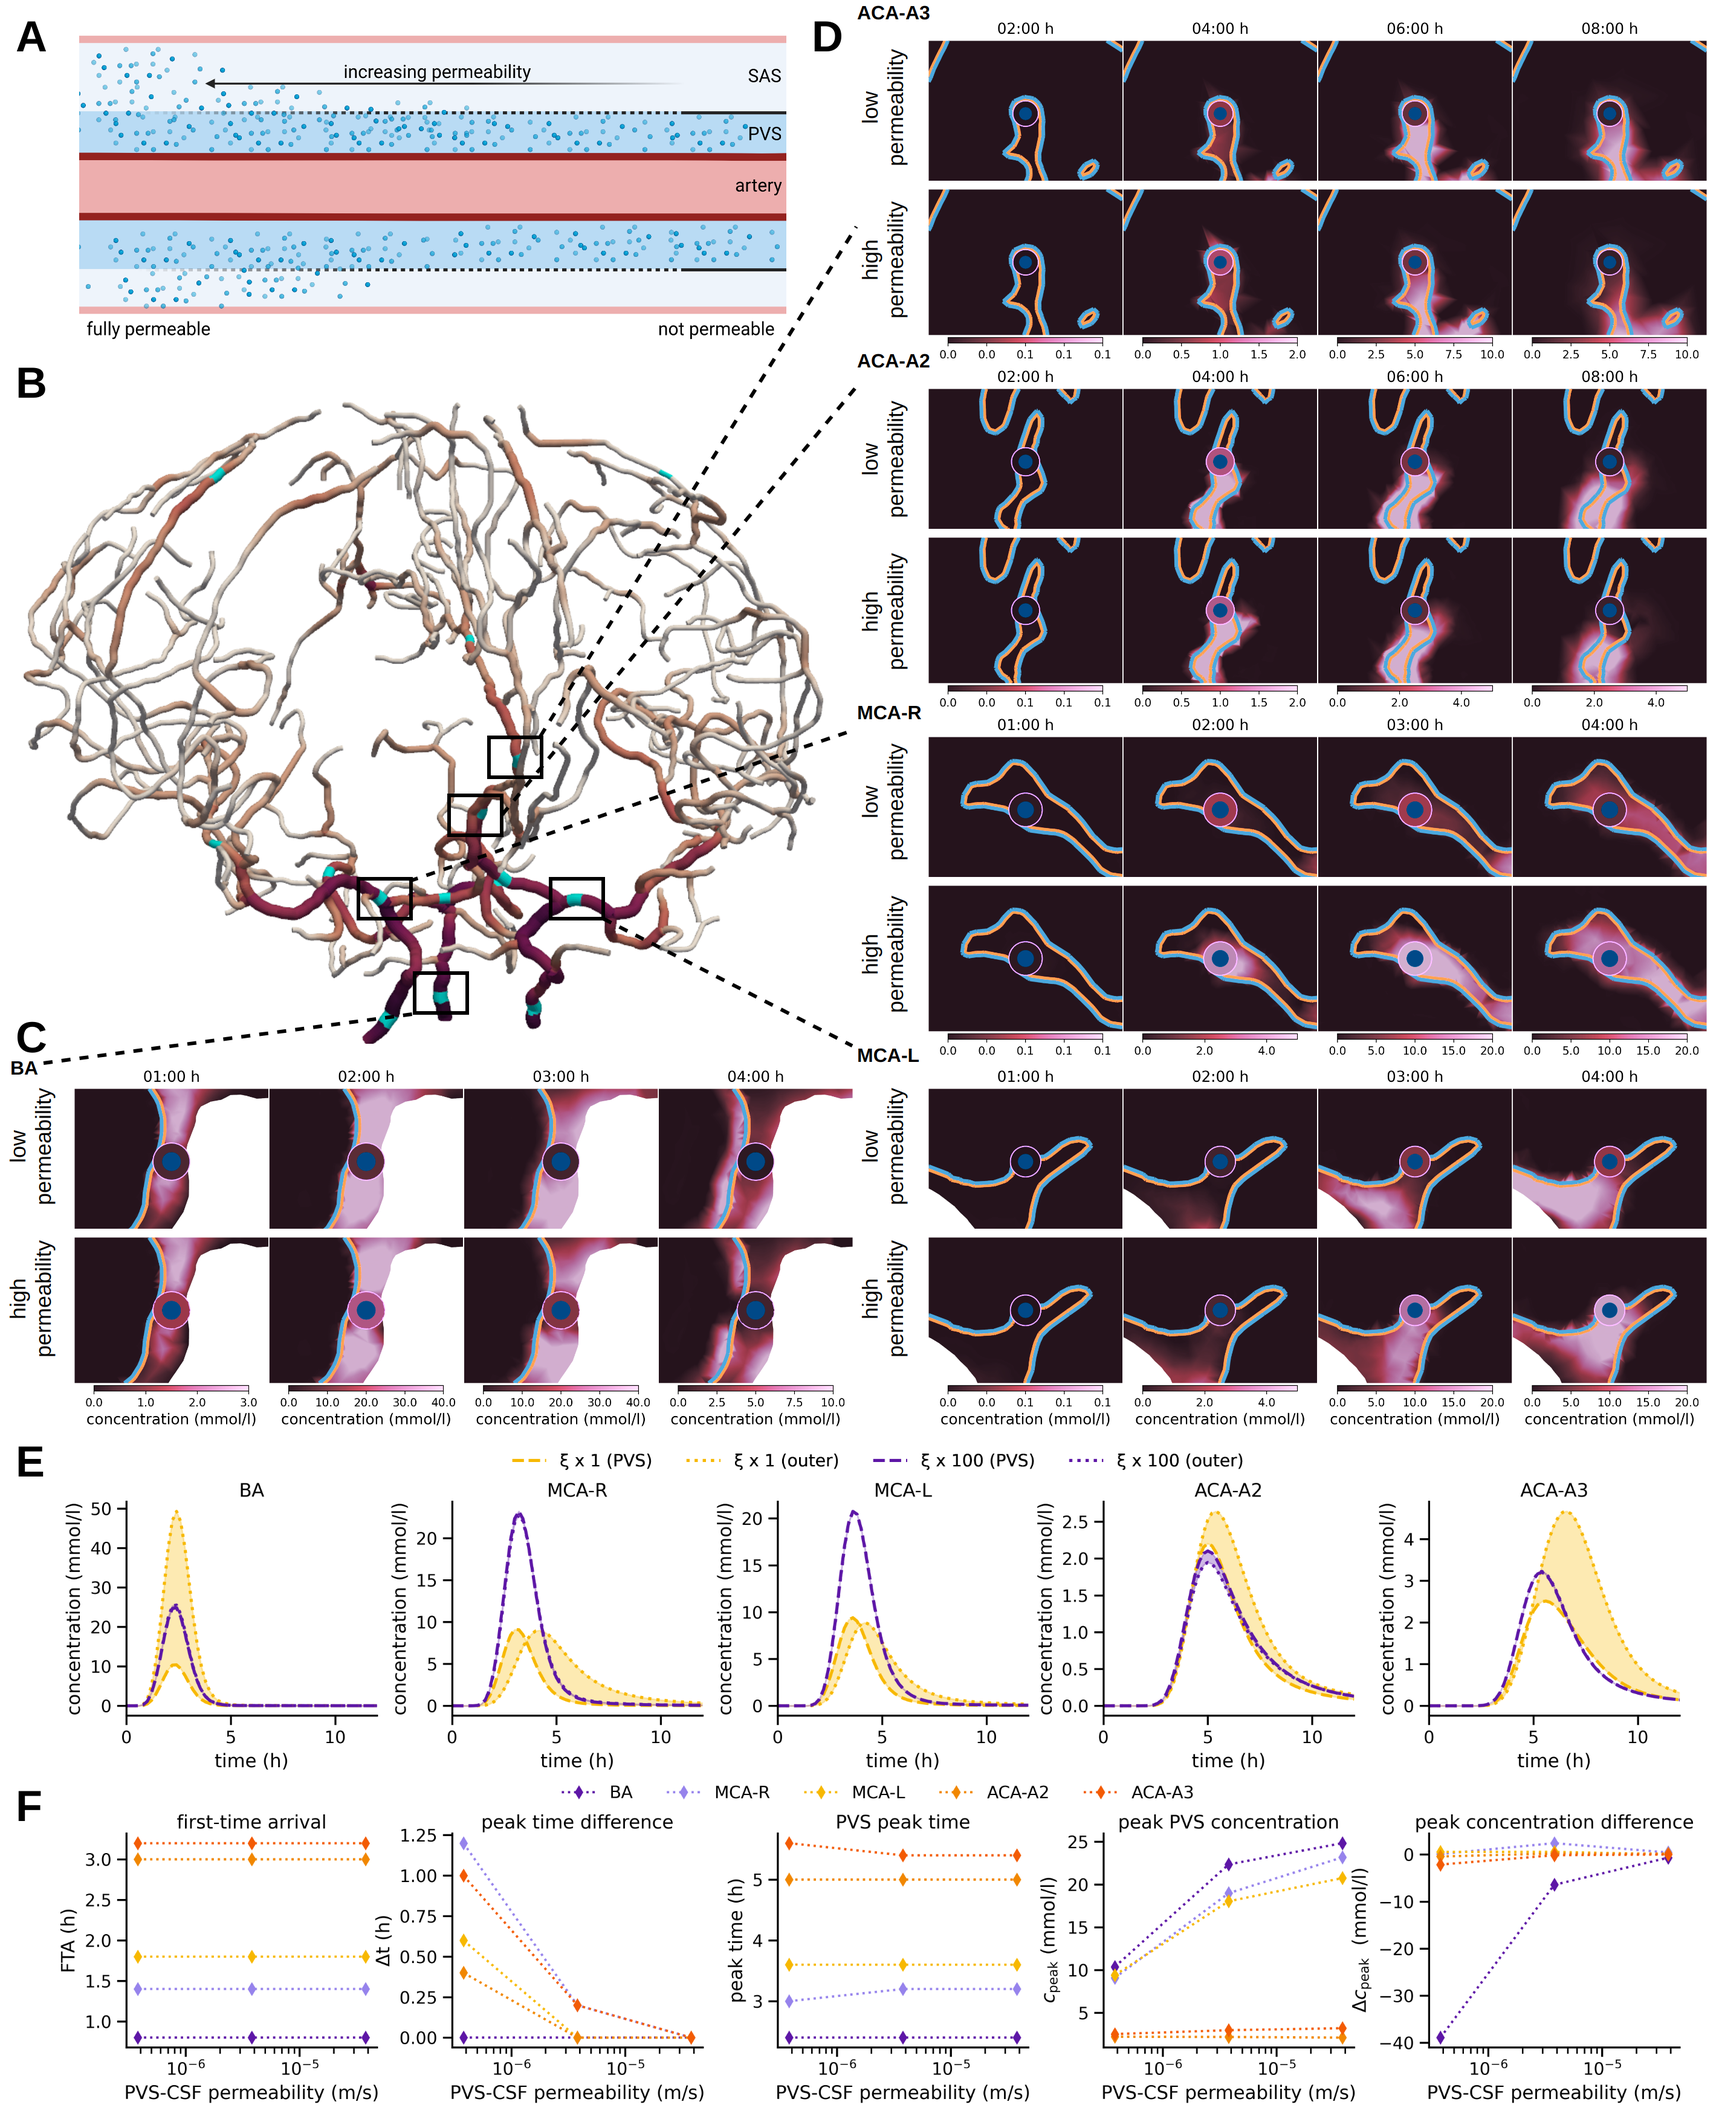
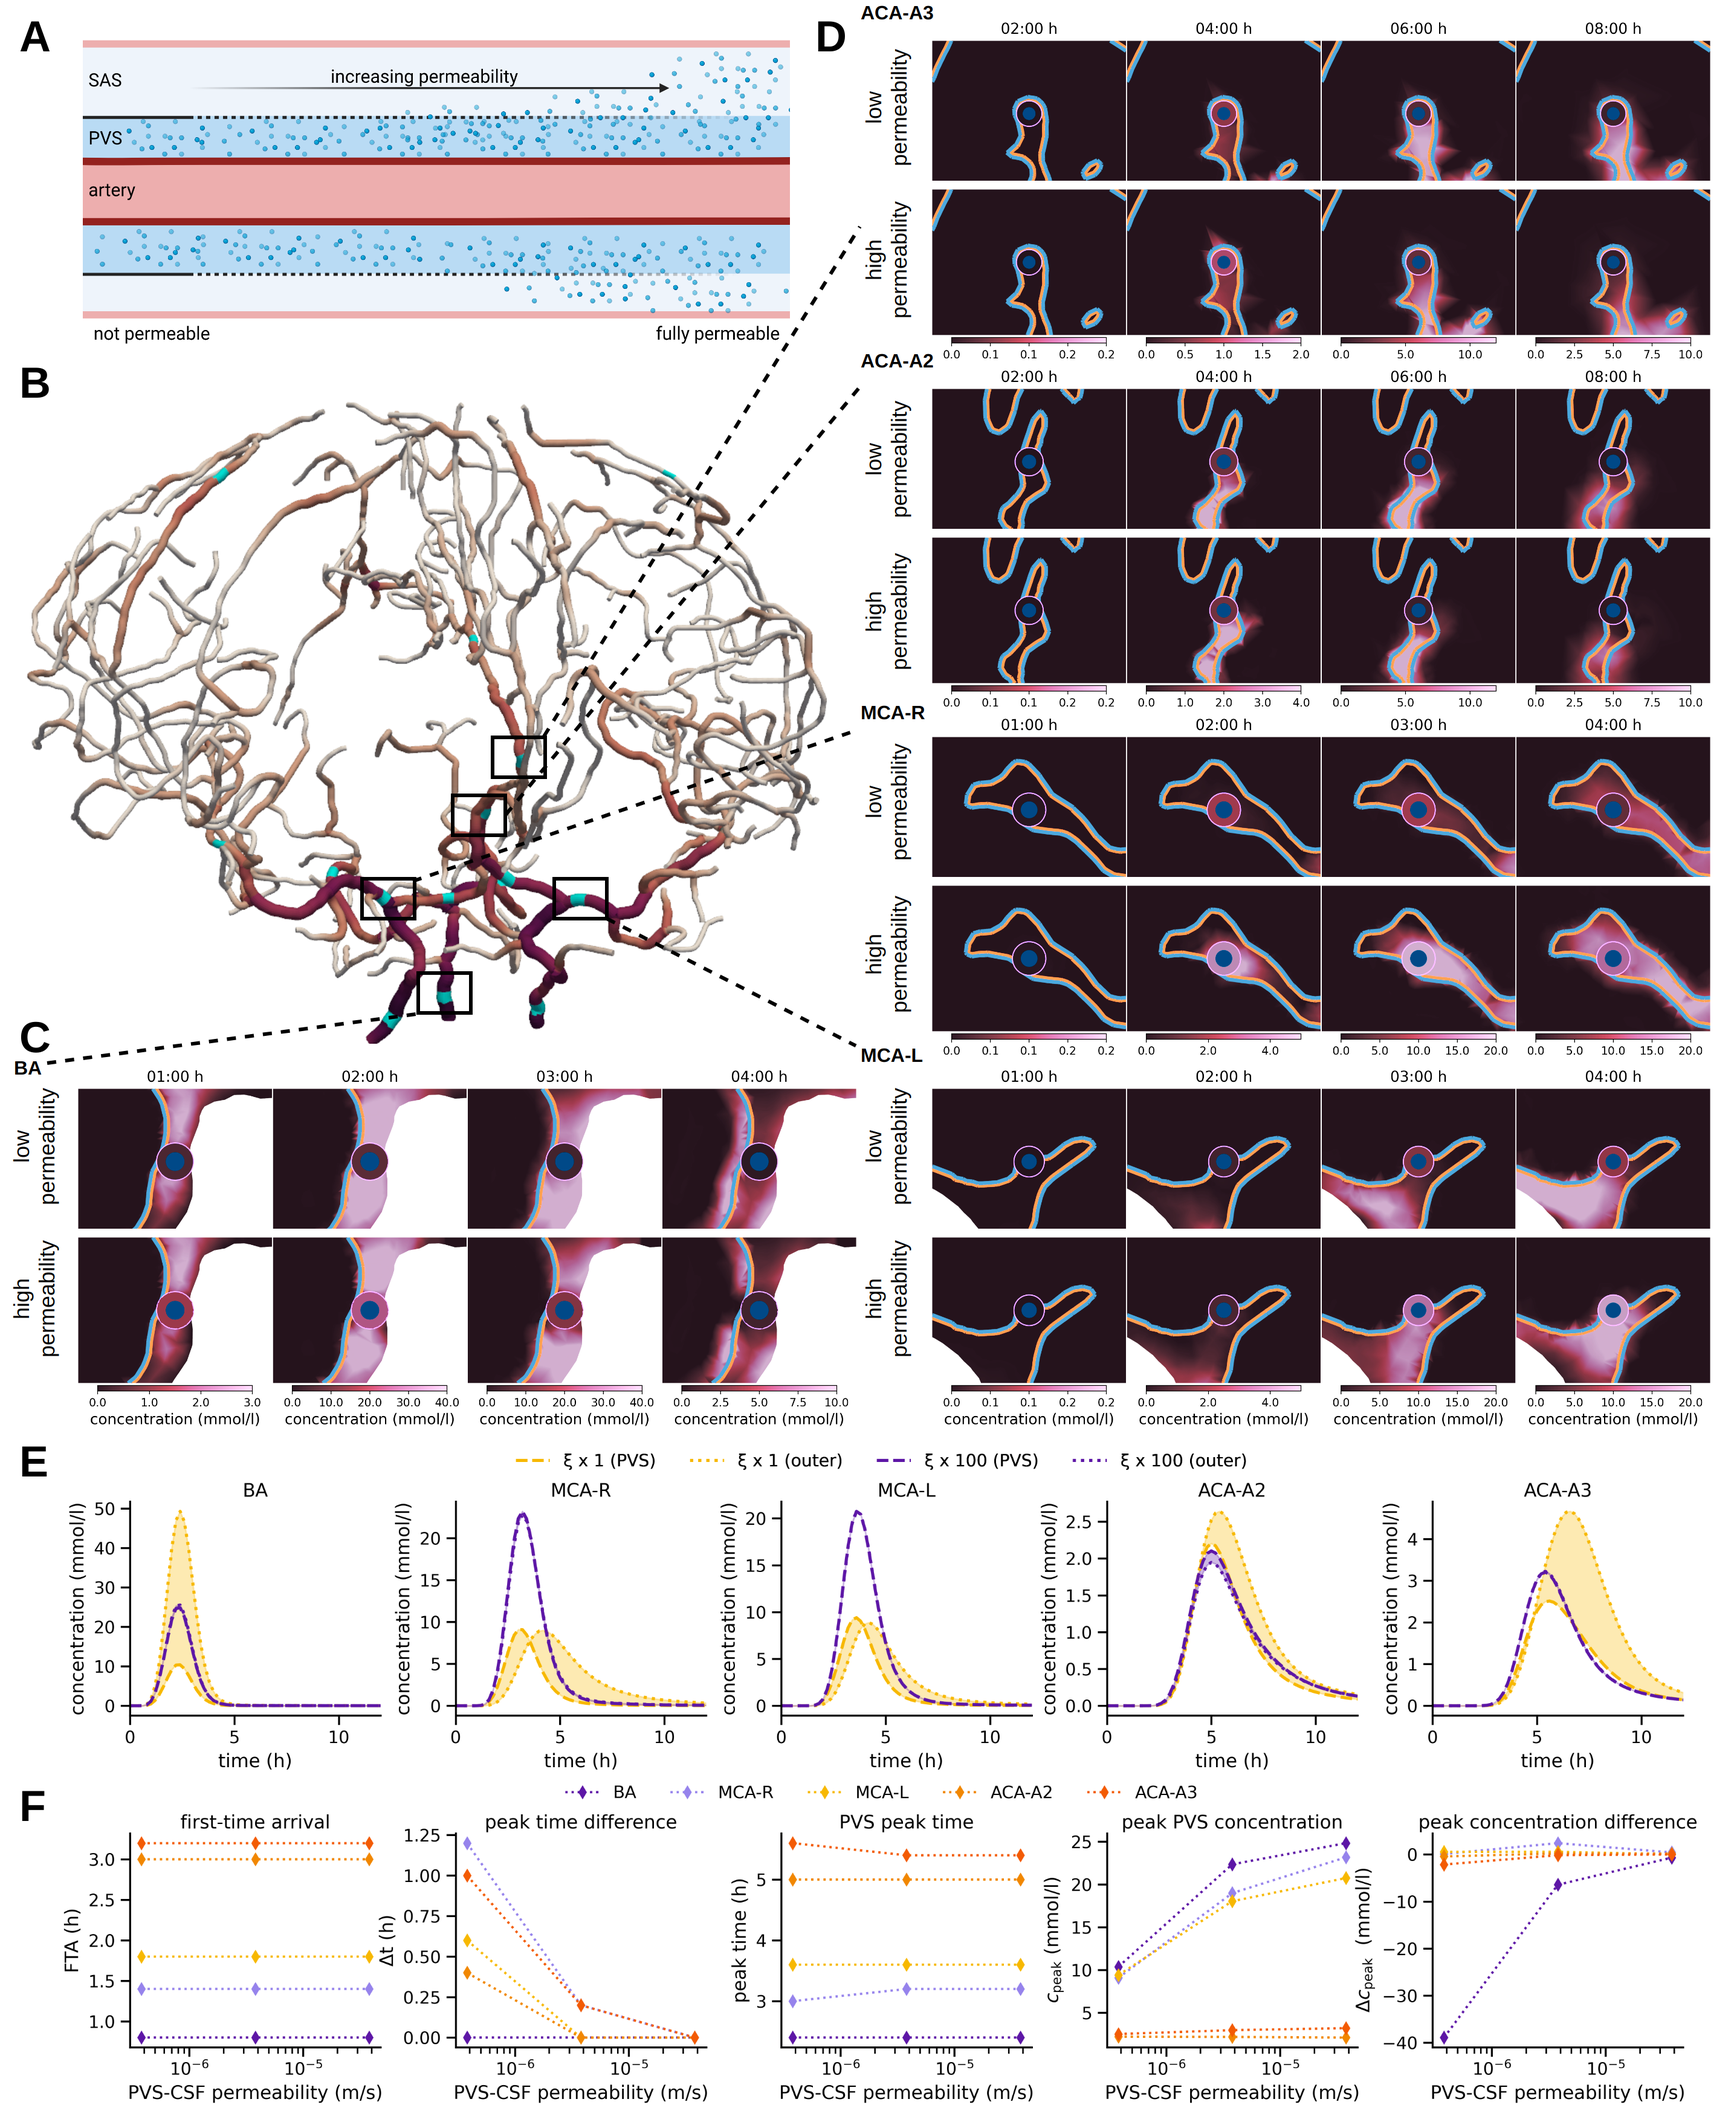
yet another figure 4 update

diff --git a/figure4.html b/figure4.html
@@ -40,10 +40,10 @@
 <img src="paper/figures/pvs_permeability.png" style="position:absolute;top:28px;width:444px;height:176px;object-fit:contain;left:19px;">
 <img src="plots/meshplots/arteries.png" style="position:absolute;left:-38px;top:197px;width:558px;height:457px;clip-path:inset(0px 30px 70px 30px);object-fit:contain;">
 <svg style="left:285.451px;top:326.972px;position:absolute;width:135px;height:97px;overflow:visible;stroke:black;stroke-width:2px;"></svg>
-<img src="plots/modelA-strongVM/modelA-strongVM_1+2+3+4_MCA-L_0.1+5.0+20.0+20.0_details.png" style="position:absolute;left:497px;top:576px;width:450px;height:160px;object-fit:contain;clip-path:inset(0px 0px 50px 15px);filter:hue-rotate(200deg);">
-<img src="plots/modelB2-100/modelB2-100_1+2+3+4_MCA-L_0.1+5.0+20.0+20.0_details.png" style="position:absolute;left:497px;top:658px;width:450px;height:160px;object-fit:contain;clip-path:inset(32px 0px 0px 15px);filter:hue-rotate(200deg);">
-<img src="plots/modelB2-100/modelB2-100_1+2+3+4_MCA-R_0.1+5.0+20.0+20.0_details.png" style="position:absolute;left:497px;top:464px;width:450px;height:160px;object-fit:contain;clip-path:inset(32px 0px 34px 15px);filter:hue-rotate(200deg);">
-<img src="plots/modelA-strongVM/modelA-strongVM_1+2+3+4_MCA-R_0.1+5.0+20.0+20.0_details.png" style="position:absolute;left:497px;top:382px;width:450px;height:160px;object-fit:contain;clip-path:inset(0px 0px 50px 15px);filter:hue-rotate(200deg);">
+<img src="plots/modelA-strongVM/modelA-strongVM_1+2+3+4_MCA-L_0.2+5.0+20.0+20.0_details.png" style="position:absolute;left:497px;top:576px;width:450px;height:160px;object-fit:contain;clip-path:inset(0px 0px 50px 15px);filter:hue-rotate(200deg);">
+<img src="plots/modelB2-100/modelB2-100_1+2+3+4_MCA-L_0.2+5.0+20.0+20.0_details.png" style="position:absolute;left:497px;top:658px;width:450px;height:160px;object-fit:contain;clip-path:inset(32px 0px 0px 15px);filter:hue-rotate(200deg);">
+<img src="plots/modelB2-100/modelB2-100_1+2+3+4_MCA-R_0.2+5.0+20.0+20.0_details.png" style="position:absolute;left:497px;top:464px;width:450px;height:160px;object-fit:contain;clip-path:inset(32px 0px 34px 15px);filter:hue-rotate(200deg);">
+<img src="plots/modelA-strongVM/modelA-strongVM_1+2+3+4_MCA-R_0.2+5.0+20.0+20.0_details.png" style="position:absolute;left:497px;top:382px;width:450px;height:160px;object-fit:contain;clip-path:inset(0px 0px 50px 15px);filter:hue-rotate(200deg);">
 <img src="plots/modelB2-100/modelB2-100_1+2+3+4_BA_3.0+40.0+40.0+10.0_details.png" style="position:absolute;left:26px;top:658px;width:450px;height:160px;object-fit:contain;clip-path:inset(32px 0px 0px 15px);filter:hue-rotate(200deg);">
 <img src="plots/modelA-strongVM/modelA-strongVM_1+2+3+4_BA_3.0+40.0+40.0+10.0_details.png" style="position:absolute;left:26px;top:576px;width:450px;height:160px;object-fit:contain;clip-path:inset(0px 0px 50px 15px);filter:hue-rotate(200deg);">
 <div style="position:absolute;top:544px;/* -adjust the position as needed */
@@ -64,8 +64,8 @@ background-color:rgba(0, 0, 0, 0.0);/* -transparent background */:;left:199px;wi
     height:100px;/* -adjust the size as needed */
     border:2px solid black;/* -black border */
 background-color:rgba(0, 0, 0, 0.0);/* -transparent background */:;left:305px;width:27px;height:20px;transform-origin:22px 16px;translate:0px 0px;"></div>
-<img src="plots/modelA-strongVM/modelA-strongVM_2+4+6+8_ACA-A3_0.1+2.0+10.0+10.0_details.png" style="position:absolute;left:497px;top:-2px;width:450px;height:160px;object-fit:contain;clip-path:inset(0px 0px 50px 15px);filter:hue-rotate(200deg);">
-<img src="plots/modelB2-100/modelB2-100_2+4+6+8_ACA-A3_0.1+2.0+10.0+10.0_details.png" style="position:absolute;left:497px;top:80px;width:450px;height:160px;object-fit:contain;clip-path:inset(32px 0px 34px 15px);filter:hue-rotate(200deg);">
+<img src="plots/modelA-strongVM/modelA-strongVM_2+4+6+8_ACA-A3_0.2+2.0+12.0+10.0_details.png" style="position:absolute;left:497px;top:-2px;width:450px;height:160px;object-fit:contain;clip-path:inset(0px 0px 50px 15px);filter:hue-rotate(200deg);">
+<img src="plots/modelB2-100/modelB2-100_2+4+6+8_ACA-A3_0.2+2.0+12.0+10.0_details.png" style="position:absolute;left:497px;top:80px;width:450px;height:160px;object-fit:contain;clip-path:inset(32px 0px 34px 15px);filter:hue-rotate(200deg);">
 <h4 style="position:absolute;left:8px;top:577px;width:40px;height:21px;">BA</h4>
 <h4 style="position:absolute;left:475px;top:570px;width:58px;height:21px;">MCA-L</h4>
 <h4 style="position:absolute;left:475px;top:381px;width:58px;height:21px;">MCA-R</h4>
@@ -76,8 +76,8 @@ background-color:rgba(0, 0, 0, 0.0);/* -transparent background */:;left:305px;wi
     height:100px;/* -adjust the size as needed */
     border:2px solid black;/* -black border */
 background-color:rgba(0, 0, 0, 0.0);/* -transparent background */:;left:271px;width:27px;height:20px;transform-origin:22px 16px;translate:0px 0px;"></div>
-<img src="plots/modelA-strongVM/modelA-strongVM_2+4+6+8_ACA-A2_0.1+2.0+5.0+5.0_details.png" style="position:absolute;left:497px;top:190px;width:450px;height:160px;object-fit:contain;clip-path:inset(0px 0px 50px 15px);filter:hue-rotate(200deg);">
-<img src="plots/modelB2-100/modelB2-100_2+4+6+8_ACA-A2_0.1+2.0+5.0+5.0_details.png" style="position:absolute;left:497px;top:272px;width:450px;height:160px;object-fit:contain;clip-path:inset(32px 0px 34px 15px);filter:hue-rotate(200deg);">
+<img src="plots/modelA-strongVM/modelA-strongVM_2+4+6+8_ACA-A2_0.2+4.0+12.0+10.0_details.png" style="position:absolute;left:497px;top:190px;width:450px;height:160px;object-fit:contain;clip-path:inset(0px 0px 50px 15px);filter:hue-rotate(200deg);">
+<img src="plots/modelB2-100/modelB2-100_2+4+6+8_ACA-A2_0.2+4.0+12.0+10.0_details.png" style="position:absolute;left:497px;top:272px;width:450px;height:160px;object-fit:contain;clip-path:inset(32px 0px 34px 15px);filter:hue-rotate(200deg);">
 <p style="position:absolute;left:442px;top:243px;width:80px;height:10pt;rotate:-90deg;">low permeability</p>
 <h4 style="position:absolute;left:475px;top:187px;width:58px;height:21px;">ACA-A2</h4>
 <div style="position:absolute;top:446px;/* -adjust the position as needed */
